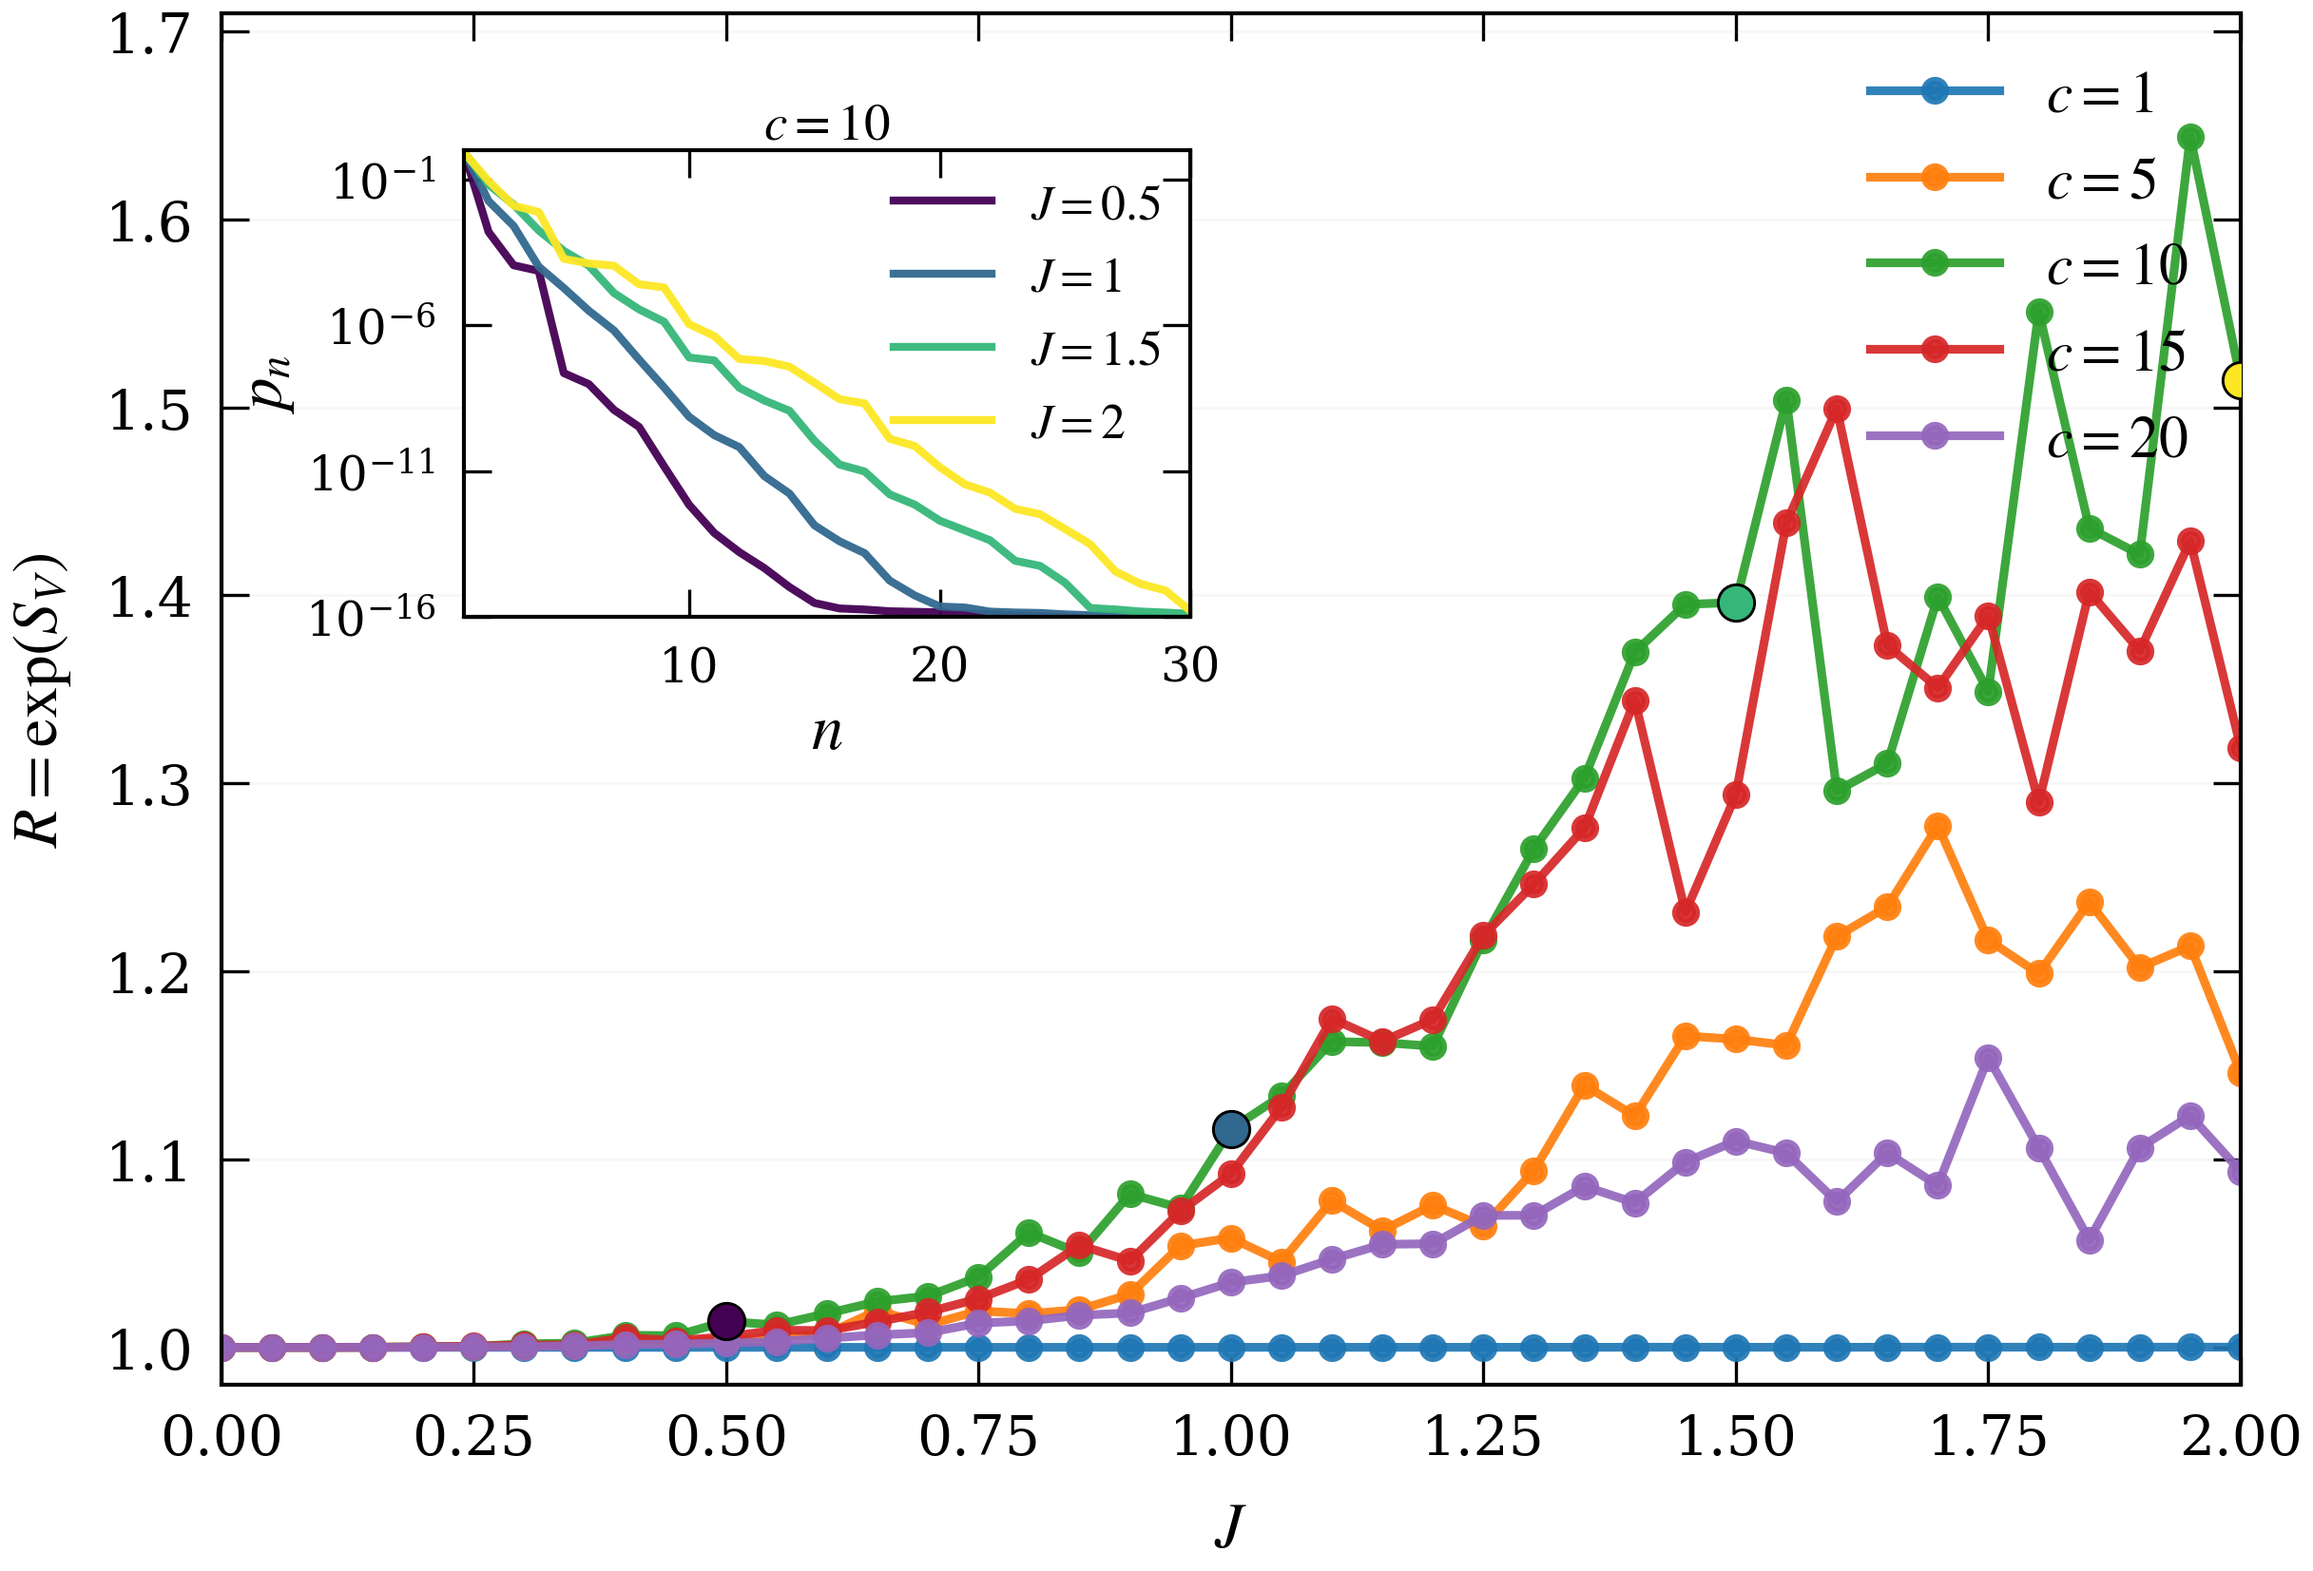
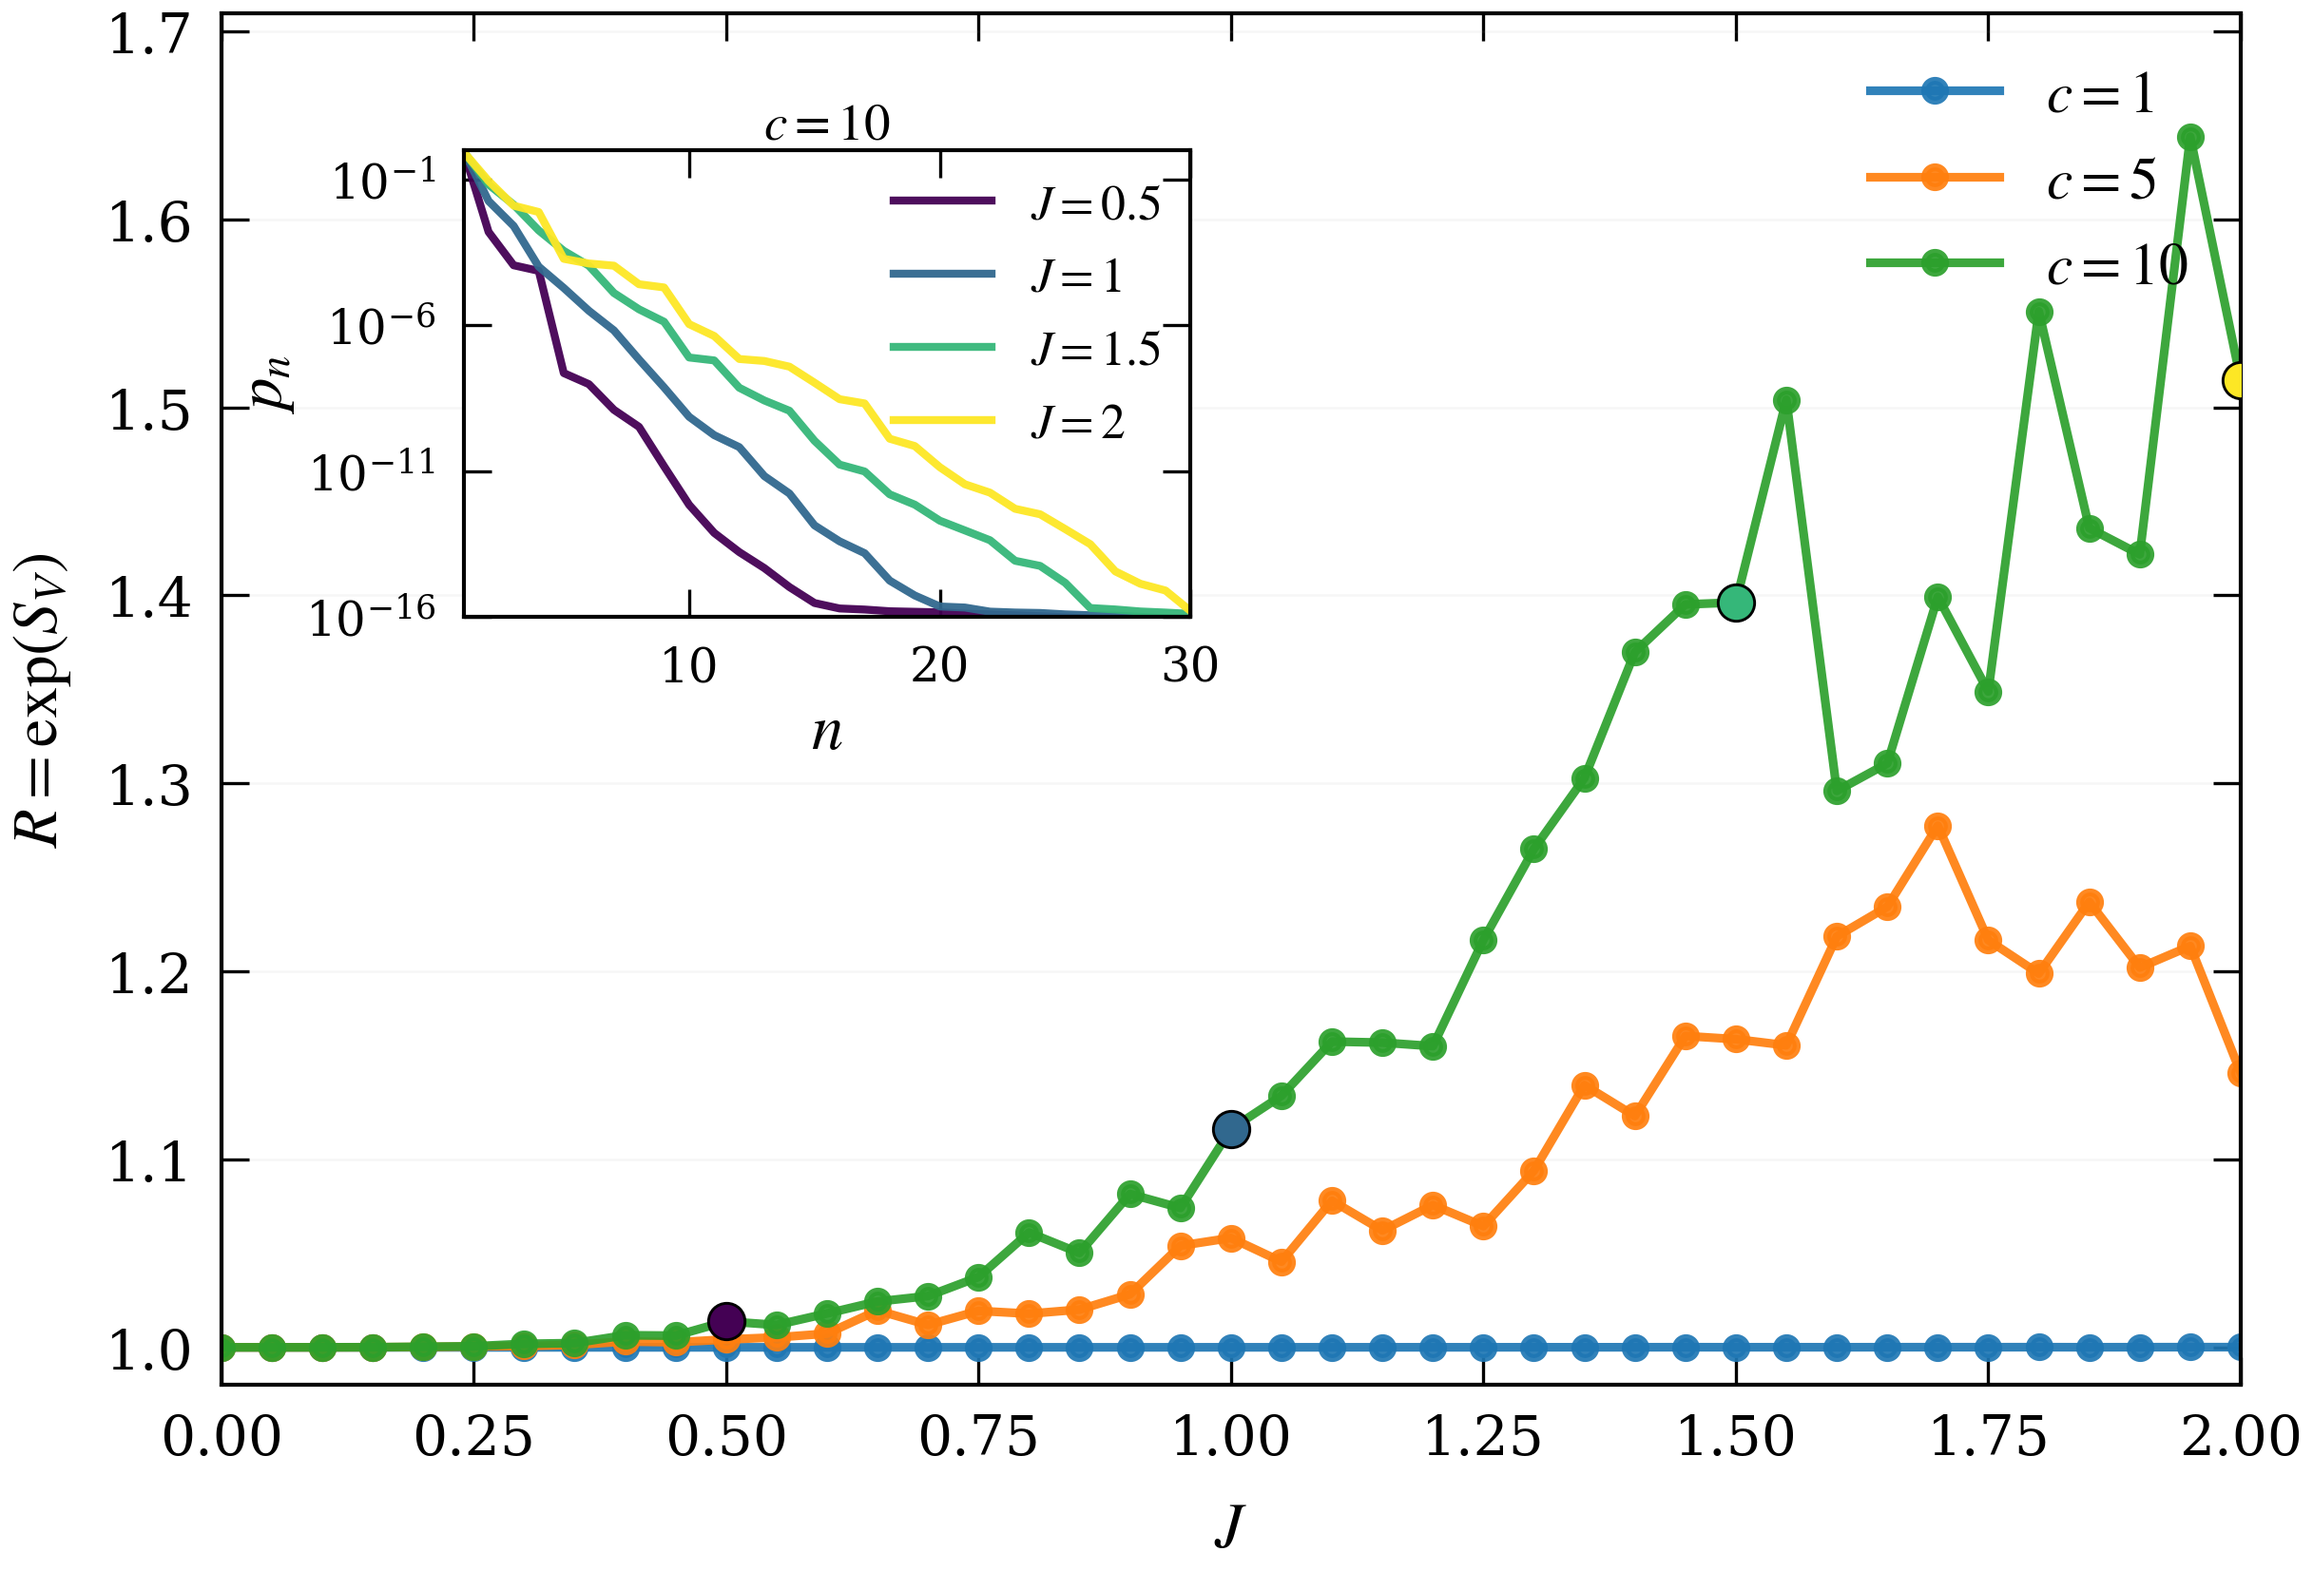
plot update

diff --git a/experiments/benchmark_modes.py b/experiments/benchmark_modes.py
@@ -176,6 +176,7 @@ def plot_from_saved(
     spectrum_probs: dict[str, dict[str, np.ndarray]],
     out_stem: Path,
     rank_tol: float,
+    plot_cuts: list[int] | None = None,
 ) -> None:
     import matplotlib.pyplot as plt
     from matplotlib.colors import Normalize
@@ -183,7 +184,8 @@ def plot_from_saved(
     _configure_matplotlib_prl_figure()
     fig, ax = plt.subplots(1, 1, figsize=(4.1, 2.8), constrained_layout=True)
 
-    cuts = sorted({int(float(r["cut"])) for r in rank_rows})
+    cuts_all = sorted({int(float(r["cut"])) for r in rank_rows})
+    cuts = [c for c in cuts_all if (plot_cuts is None or c in plot_cuts)]
     js = sorted({float(r["J"]) for r in rank_rows})
 
     # Primary panel: all requested cuts.
@@ -305,6 +307,7 @@ def _parse_args() -> argparse.Namespace:
     p.add_argument("--spectrum-draws", type=int, default=1)
     p.add_argument("--spectrum-js", type=str, default=",".join(str(v) for v in DENSE_JS_DEFAULT))
     p.add_argument("--rank-tol", type=float, default=RANK_TOL)
+    p.add_argument("--plot-cuts", type=str, default="")
     p.add_argument("--plot-only", action="store_true")
     p.add_argument("--benchmark-only", action="store_true")
     p.add_argument("--spectrum-rank-csv", type=Path, default=None)
@@ -316,6 +319,8 @@ def main() -> None:
     args = _parse_args()
     out_dir = args.out_dir.resolve()
     out_dir.mkdir(parents=True, exist_ok=True)
+
+    plot_cuts = _parse_int_list(args.plot_cuts) if str(args.plot_cuts).strip() else None
 
     if bool(args.plot_only):
         spectrum_rank_csv = args.spectrum_rank_csv if args.spectrum_rank_csv is not None else out_dir / "spectrum_rank_summary.csv"
@@ -354,7 +359,13 @@ def main() -> None:
                 "s_mean": np.asarray(loaded[f"{ctag}_smean"], dtype=np.float64) if has_s_mean else np.sqrt(np.clip(p_mean, 0.0, None)),
                 "s_std": np.asarray(loaded[f"{ctag}_sstd"], dtype=np.float64) if has_s_std else np.zeros_like(p_mean, dtype=np.float64),
             }
-        plot_from_saved(rank_rows=rank_rows, spectrum_probs=probs, out_stem=out_dir / "fig_spectrum_and_rank_vs_j_prl", rank_tol=float(args.rank_tol))
+        plot_from_saved(
+            rank_rows=rank_rows,
+            spectrum_probs=probs,
+            out_stem=out_dir / "fig_spectrum_and_rank_vs_j_prl",
+            rank_tol=float(args.rank_tol),
+            plot_cuts=plot_cuts,
+        )
         print(f"Wrote figure: {(out_dir / 'fig_spectrum_and_rank_vs_j_prl').with_suffix('.pdf')}", flush=True)
         return
 
@@ -365,6 +376,7 @@ def main() -> None:
             spectrum_probs=spectrum_probs,
             out_stem=out_dir / "fig_spectrum_and_rank_vs_j_prl",
             rank_tol=float(args.rank_tol),
+            plot_cuts=plot_cuts,
         )
         print(f"Wrote figure: {(out_dir / 'fig_spectrum_and_rank_vs_j_prl').with_suffix('.pdf')}", flush=True)
     print(f"Wrote tables to: {out_dir}", flush=True)
